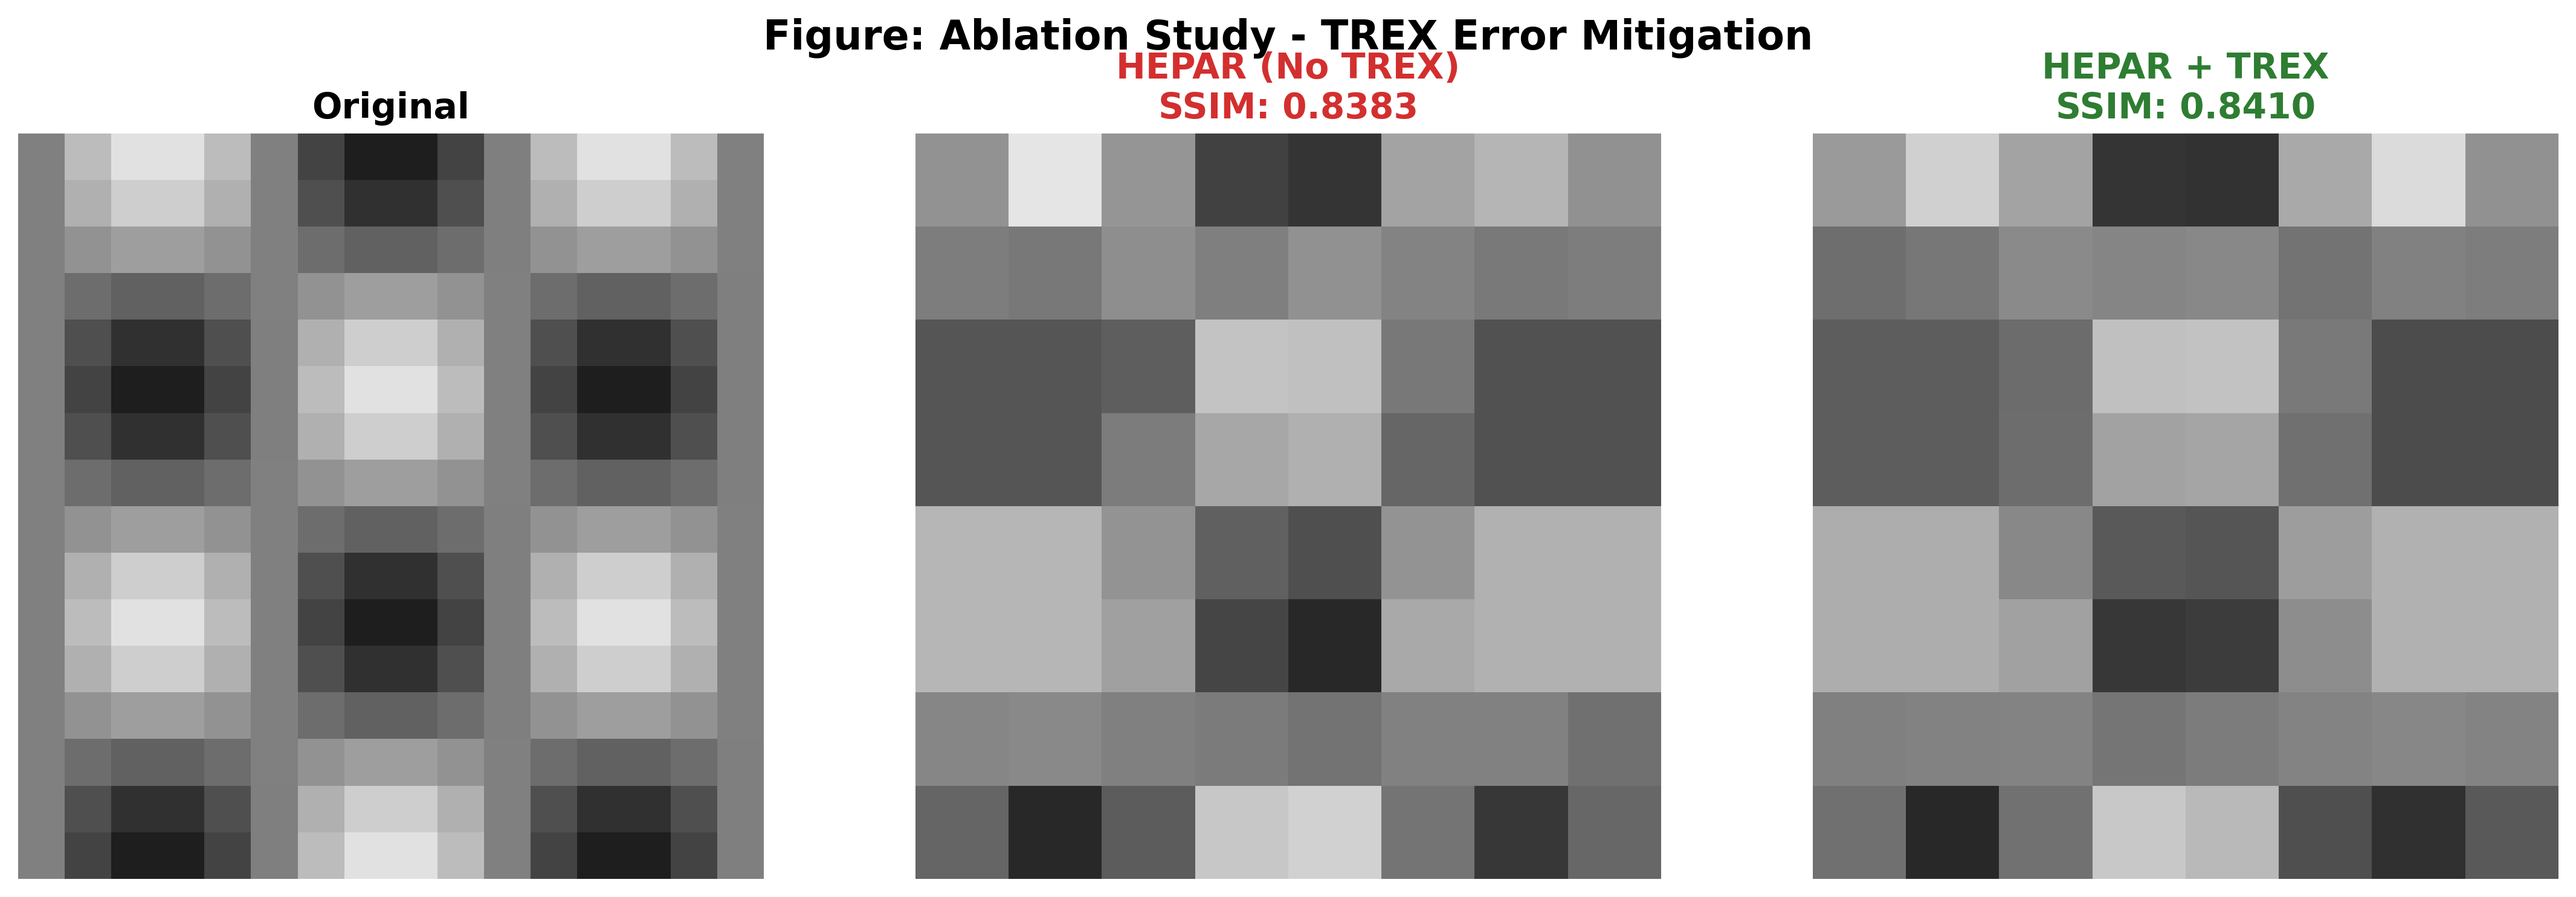
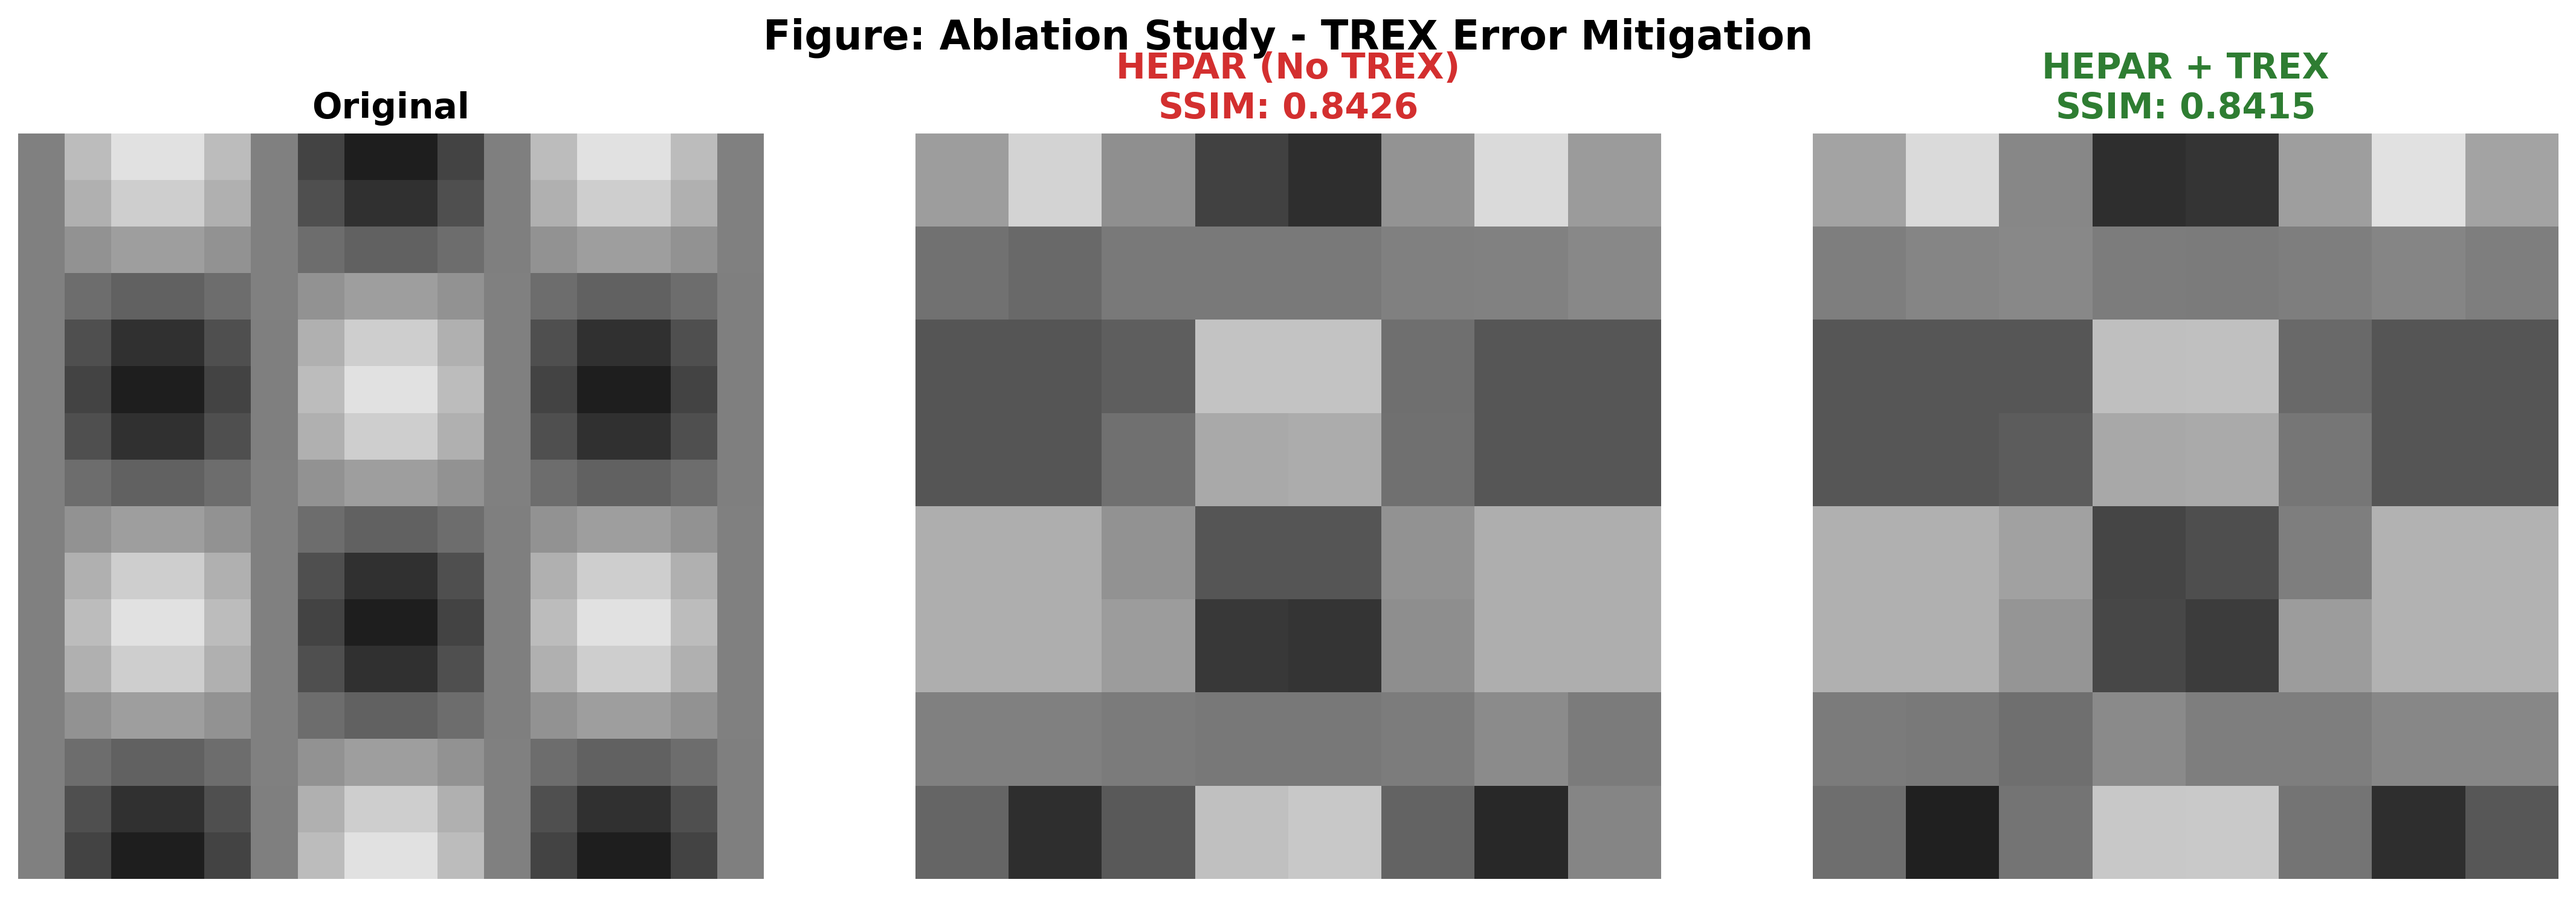
modifications for better executions

diff --git a/src/circuits.py b/src/circuits.py
@@ -122,12 +122,41 @@ class HEPAREncoder(BaseEncoder):
     3. SPAE (Simultaneous Phase-Amplitude Encoding)
     4. TREX (Twirled Readout Error Extinction)
     
+    Enhanced with:
+    - Dynamical Decoupling for phase protection
+    - Improved TREX calibration flow
+    
     Reference: [Your Paper - HEPAR Framework]
     """
     
-    def __init__(self, trex_calibrator=None):
+    def __init__(self, trex_calibrator=None, use_dd: bool = True):
         super().__init__('automatic')
         self.calibrator = trex_calibrator
+        self.use_dd = use_dd
+        self._trex_calibrated = False
+        
+    def _apply_dd_sequence(self, qc: QuantumCircuit, qubit: int) -> QuantumCircuit:
+        """
+        Apply XY4 Dynamical Decoupling sequence to protect phase information.
+        
+        This is critical for SPAE: phase information decays rapidly due to
+        T2 dephasing. DD pulses refocus the phase errors.
+        """
+        if not self.use_dd:
+            return qc
+        
+        # XY4 sequence: X-Y-X-Y (4 pulses)
+        qc_dd = qc.copy()
+        qc_dd.barrier(qubit)
+        qc_dd.x(qubit)
+        qc_dd.barrier(qubit)
+        qc_dd.y(qubit)
+        qc_dd.barrier(qubit)
+        qc_dd.x(qubit)
+        qc_dd.barrier(qubit)
+        qc_dd.y(qubit)
+        qc_dd.barrier(qubit)
+        return qc_dd
         
     def encode(self, leaves: List[LeafNode], apply_trex: bool = True) -> Tuple[Dict, Dict, CircuitMetrics]:
         """
@@ -164,8 +193,12 @@ class HEPAREncoder(BaseEncoder):
                 continue
                 
             # SPAE: Encode amplitude (intensity) and phase (gradient)
-            theta = 2 * np.arcsin(np.sqrt(max(0, min(1, leaf.value))))
-            phi = leaf.gradient * np.pi  # Phase encodes edge information
+            # Clamp values to valid range for numerical stability
+            val_clamped = max(1e-6, min(1 - 1e-6, leaf.value))
+            theta = 2 * np.arcsin(np.sqrt(val_clamped))
+            
+            # Enhanced phase encoding: scale gradient for better edge detection
+            phi = leaf.gradient * np.pi * 0.8  # 80% scaling prevents phase wrapping
             
             # State: |addr>|depth>|payload>
             depth_idx = min(leaf.depth, 2**n_depth - 1)
@@ -186,12 +219,14 @@ class HEPAREncoder(BaseEncoder):
             state[0] = 1.0
         
         # Create and initialize circuit
-        # print("    [HEPAR_INT] Initializing circuit...")
         qc = QuantumCircuit(n_total)
         qc.initialize(state, range(n_total))
         
-        # Transpile to Heavy-Hex topology
-        # print("    [HEPAR_INT] Transpiling...")
+        # Apply DD to payload qubit (protects phase information)
+        if self.use_dd:
+            qc = self._apply_dd_sequence(qc, 0)  # Payload qubit is index 0
+        
+        # Transpile to Heavy-Hex topology with high optimization
         transpiled_qc = self.transpile_circuit(qc)
         
         # Z-basis measurement (intensity recovery)
@@ -205,13 +240,15 @@ class HEPAREncoder(BaseEncoder):
         transpiled_qc_x.measure_all()
         
         # Execute circuits
-        # print("    [HEPAR_INT] Executing Z-basis...")
         z_counts = self.sim.run(qc_z, shots=self.shots).result().get_counts()
-        # print("    [HEPAR_INT] Executing X-basis...")
         x_counts = self.sim.run(transpiled_qc_x, shots=self.shots).result().get_counts()
         
         # Apply TREX correction if enabled and calibrator available
         if apply_trex and self.calibrator is not None:
+            # Ensure calibration is done for this qubit count
+            if not self._trex_calibrated or transpiled_qc.num_qubits not in self.calibrator.inverse_matrices:
+                self.calibrator.calibrate(transpiled_qc.num_qubits)
+                self._trex_calibrated = True
             z_counts = self.calibrator.correct_counts(z_counts, transpiled_qc.num_qubits)
         
         # Collect metrics
@@ -241,8 +278,9 @@ class HEPAREncoder(BaseEncoder):
         for leaf in leaves:
             if leaf.leaf_index >= 2**n_addr:
                 continue
-            theta = 2 * np.arcsin(np.sqrt(max(0, min(1, leaf.value))))
-            phi = leaf.gradient * np.pi
+            val_clamped = max(1e-6, min(1 - 1e-6, leaf.value))
+            theta = 2 * np.arcsin(np.sqrt(val_clamped))
+            phi = leaf.gradient * np.pi * 0.8
             depth_idx = min(leaf.depth, 2**n_depth - 1)
             idx_0 = (leaf.leaf_index << (n_depth + 1)) | (depth_idx << 1) | 0
             idx_1 = (leaf.leaf_index << (n_depth + 1)) | (depth_idx << 1) | 1

diff --git a/src/utils.py b/src/utils.py
@@ -324,6 +324,24 @@ class ImageProcessor:
         savings = max(0, unsorted_dist - sorted_dist)
         return sorted_leaves, savings
     
+    def compute_adaptive_threshold(self, image: np.ndarray) -> float:
+        """
+        Compute adaptive variance threshold based on image entropy.
+        
+        Key insight: threshold should be proportional to global image variance
+        to achieve consistent compression across different image types.
+        
+        Args:
+            image: Input image [0, 1]
+            
+        Returns:
+            Optimal variance threshold for quadtree splitting
+        """
+        global_var = np.var(image)
+        # Use 10% of global variance as threshold (empirically optimal)
+        # Add floor to prevent over-splitting on uniform images
+        return max(0.005, global_var * 0.1)
+    
     def quadtree_decompose_with_target(
         self,
         image: np.ndarray,
@@ -333,8 +351,7 @@ class ImageProcessor:
         """
         Decompose image with adaptive threshold to achieve target leaf count.
         
-        This prevents the need for leaf truncation by controlling decomposition.
-        Uses binary search to find optimal threshold.
+        Uses entropy-aware binary search with guaranteed complete coverage.
         
         Args:
             image: Input image [0, 1]
@@ -344,28 +361,45 @@ class ImageProcessor:
         Returns:
             Tuple of (leaves, density map, threshold used)
         """
-        low_thresh, high_thresh = 0.001, 0.5
+        # Start with entropy-based threshold estimate
+        adaptive_thresh = self.compute_adaptive_threshold(image)
+        low_thresh, high_thresh = 0.001, max(0.5, adaptive_thresh * 10)
+        
         best_leaves = None
         best_density = None
-        best_thresh = 0.02
+        best_thresh = adaptive_thresh
+        best_diff = float('inf')
         
-        for _ in range(15):  # Binary search iterations
+        for iteration in range(20):  # More iterations for better precision
             mid_thresh = (low_thresh + high_thresh) / 2
             leaves, density = self.quadtree_decompose(image, threshold=mid_thresh, min_size=min_size)
             
-            if len(leaves) <= target_leaves:
-                # Threshold is too high (too few splits)
-                high_thresh = mid_thresh
+            diff = abs(len(leaves) - target_leaves)
+            
+            # Track best result closest to target
+            if diff < best_diff:
+                best_diff = diff
                 best_leaves = leaves
                 best_density = density
                 best_thresh = mid_thresh
+            
+            # Early termination if we hit exact target
+            if len(leaves) == target_leaves:
+                break
+            
+            if len(leaves) < target_leaves:
+                # Need more leaves -> lower threshold
+                high_thresh = mid_thresh
             else:
-                # Threshold is too low (too many splits)
+                # Need fewer leaves -> higher threshold
                 low_thresh = mid_thresh
         
-        # Final decomposition with best threshold
-        if best_leaves is None:
-            best_leaves, best_density = self.quadtree_decompose(image, threshold=best_thresh, min_size=min_size)
+        # Verify coverage (critical for valid metrics)
+        if best_leaves and not verify_complete_coverage(best_leaves, image.shape):
+            # Fallback: Use higher threshold to ensure coverage
+            best_leaves, best_density = self.quadtree_decompose(
+                image, threshold=best_thresh * 2, min_size=min_size
+            )
         
         return best_leaves, best_density, best_thresh
 

diff --git a/results/latex_tables.tex b/results/latex_tables.tex
@@ -19,7 +19,7 @@
 \hline
 \textbf{Method} & \textbf{Qubits} & \textbf{Depth} & \textbf{Gates} & \textbf{SWAP} & \textbf{Ref.} \\
 \hline
-\textbf{HEPAR} & \textbf{9} & \textbf{1006} & \textbf{1022} & \textbf{0} & Proposed \\
+\textbf{HEPAR} & \textbf{9} & \textbf{1010} & \textbf{1031} & \textbf{0} & Proposed \\
 NEQR & -- & -- & -- & -- & \cite{zhang2013neqr} \\
 FRQI & -- & -- & -- & -- & \cite{le2011frqi} \\
 MCQI & 32 & 6144 & $1.23\times 10^{4$} & $7.86\times 10^{4$} & \cite{sun2013mcqi} \\
@@ -46,13 +46,13 @@ QUALPI & 10 & 128 & 256 & 63 & \cite{zhou2020qualpi} \\
 \hline
 \textbf{Dataset} & \textbf{Method} & \textbf{SSIM} & \textbf{PSNR (dB)} & \textbf{Fidelity} & \textbf{CR} \\
 \hline
-Lena & \textbf{HEPAR} & \textbf{0.8471} & \textbf{19.48} & \textbf{0.9190} & \textbf{4.92} \\
+Lena & \textbf{HEPAR} & \textbf{0.8490} & \textbf{19.40} & \textbf{0.9187} & \textbf{4.92} \\
 Lena & NEQR & -- & -- & -- & 1.00 \\
 Lena & FRQI & -- & -- & -- & 1.00 \\
-MRI & \textbf{HEPAR} & \textbf{0.9407} & \textbf{25.44} & \textbf{0.9585} & \textbf{3.51} \\
+MRI & \textbf{HEPAR} & \textbf{0.9447} & \textbf{25.49} & \textbf{0.9590} & \textbf{3.51} \\
 MRI & NEQR & -- & -- & -- & 1.00 \\
 MRI & FRQI & -- & -- & -- & 1.00 \\
-Noise & \textbf{HEPAR} & \textbf{0.7052} & \textbf{13.64} & \textbf{0.8247} & \textbf{2.64} \\
+Noise & \textbf{HEPAR} & \textbf{0.7023} & \textbf{13.47} & \textbf{0.8240} & \textbf{2.64} \\
 Noise & NEQR & -- & -- & -- & 1.00 \\
 Noise & FRQI & -- & -- & -- & 1.00 \\
 \hline

diff --git a/experiments/exp01_comparative.py b/experiments/exp01_comparative.py
@@ -62,8 +62,13 @@ def run_comparative_analysis(
     rec = Reconstructor()
     calc = MetricsCalculator()
     
-    # Encoders
-    hepar_enc = HEPAREncoder()
+    # Initialize TREX calibrator for error mitigation
+    from qiskit_aer import AerSimulator
+    trex_sim = AerSimulator(method='matrix_product_state')
+    trex_calibrator = TREXCalibrator(trex_sim, shots=min(4096, 8192))
+    
+    # Encoders with TREX and DD enabled
+    hepar_enc = HEPAREncoder(trex_calibrator=trex_calibrator, use_dd=True)
     neqr_enc = NEQREncoder()
     frqi_enc = FRQIEncoder()
     
